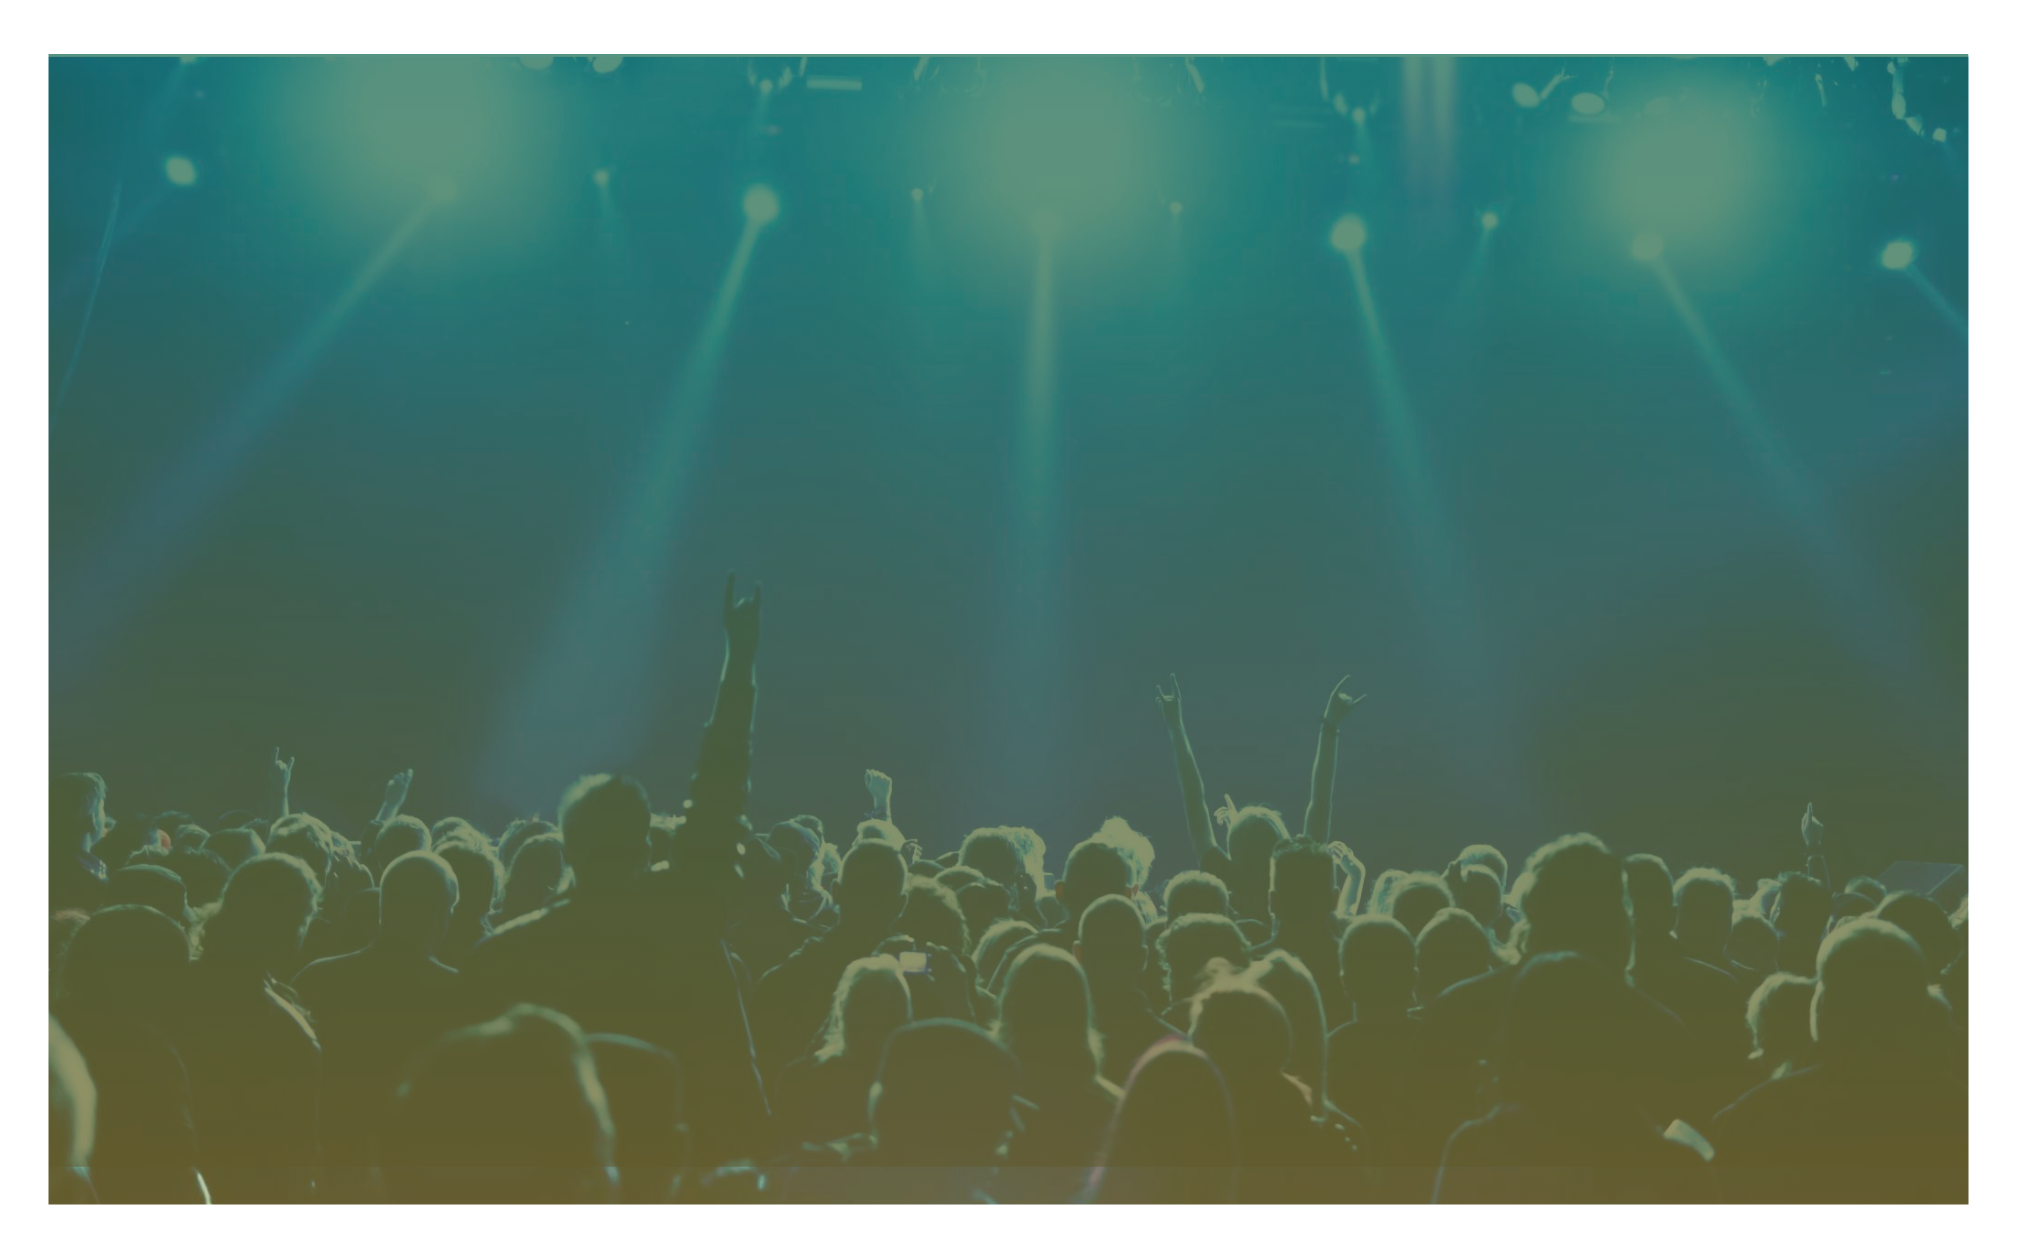
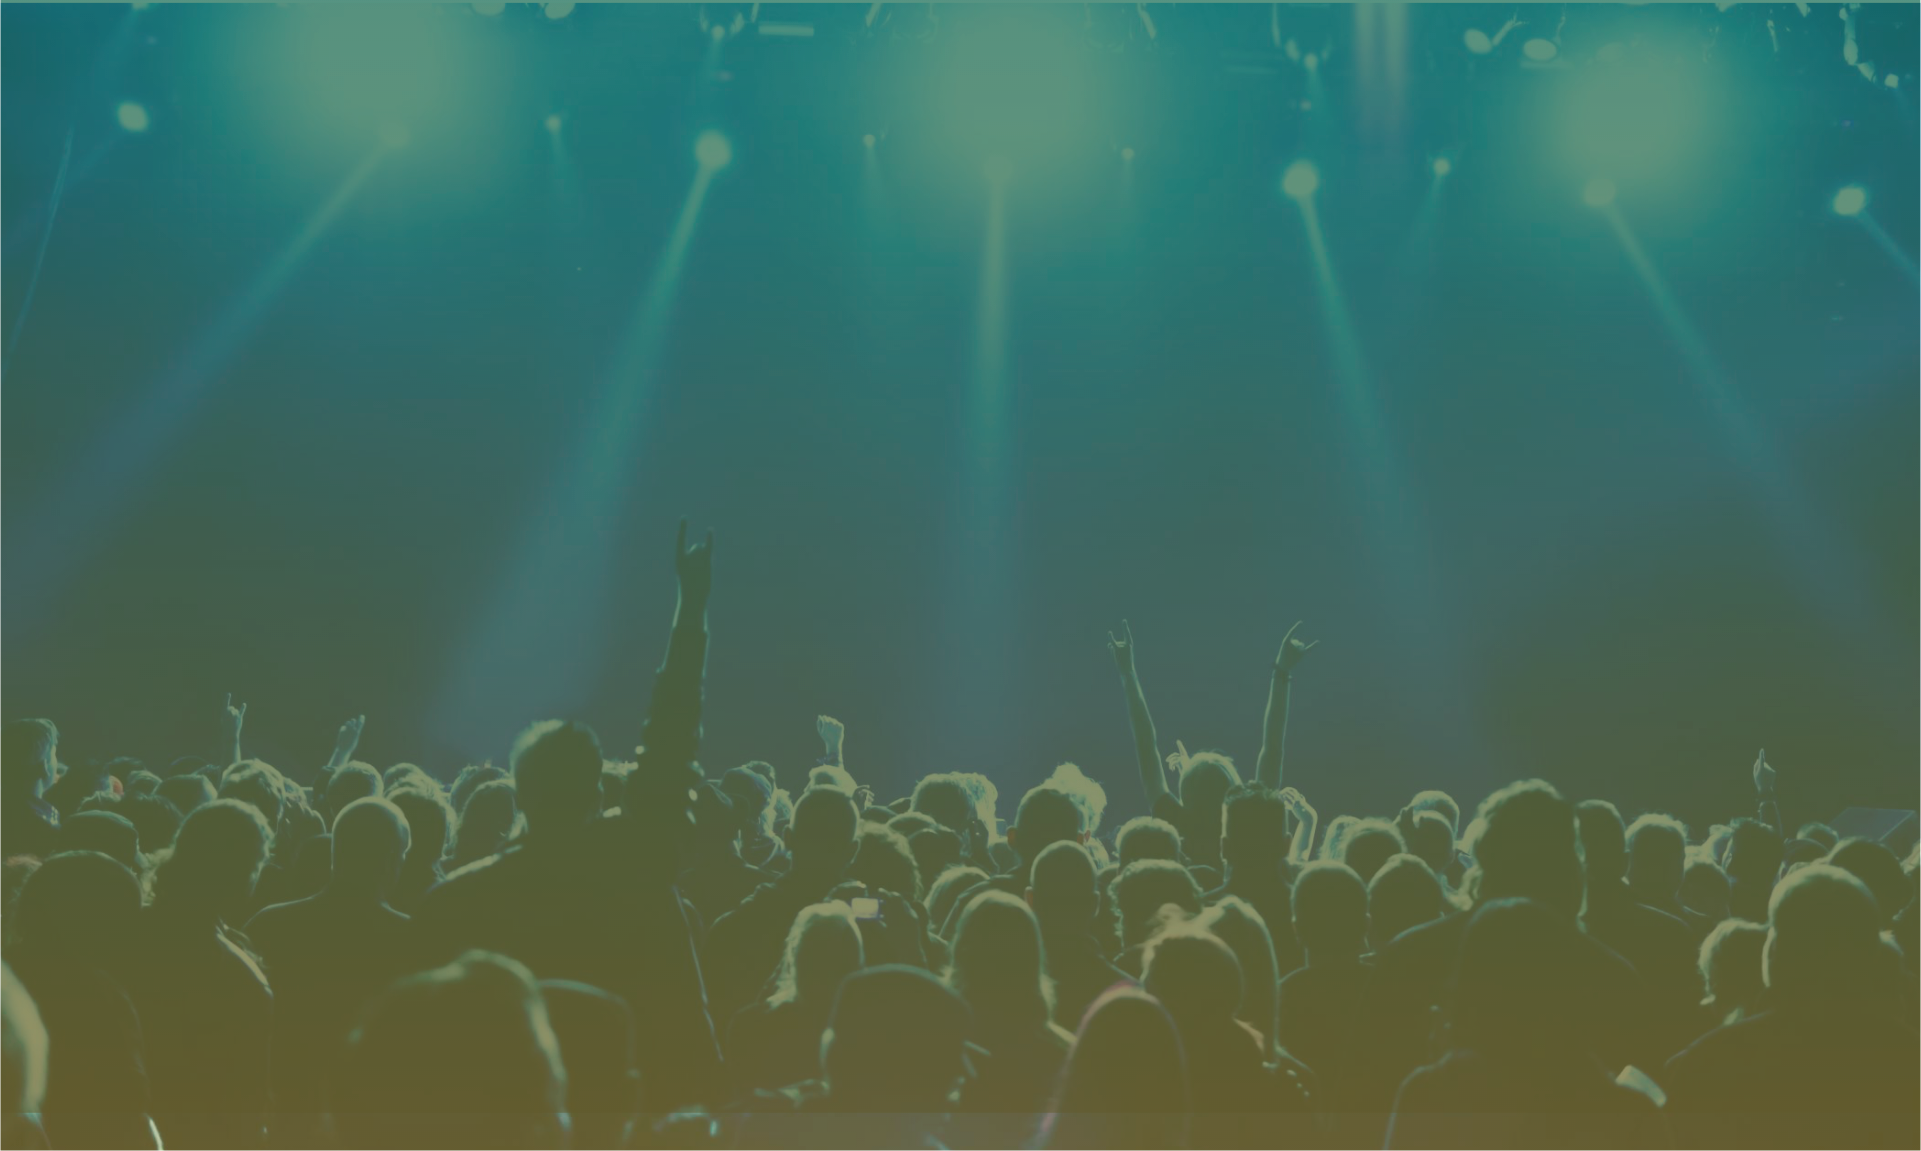
imagenes

diff --git a/15.html b/15.html
@@ -10,7 +10,7 @@
 
 
 <body>
-	<div class="barra_sup grad2">
+	<div class="barra_sup grad8">
 		<div class="row">
 			<div class="col-xs-12 col-sm-4 col-sm-offset-4">
 				<img src="img/Recursoswebcliente-03.png" width="100%">
@@ -18,43 +18,33 @@
 			<div class="col-xs-12 col-sm-4">
 				<nav class="navbar pull-left">
 					<ul class="nav navbar-nav">
-						<li><a href="7.html" class="active">Home</a></li>
-						<li><a href="7.html">Login</a></li>
+						<li><a href="14.html" class="active">Home</a></li>
+						<li><a href="">Login</a></li>
 						<li><a href="">Contáctanos</a></li>
 					</ul>
 				</nav>
-			</div>
-		
-			<div class="col-sm-12">
-				<h3 class="text-center blanco">¿Qué te gustaría <b class="naranja">ofrecer?</b></h3>
 			</div>
 		</div>
 		
 		<div class="cont_central ">
 			<div class="row">
-				<div class="container">
-					<div class="col-sm-3">
-						<center><img src="img/b4.png" class="icon_4"></center>
-						<h4 class="text-center">Eventos</h4>
+				<center><a href=""><img src="img/Recursoswebcliente-39.png" width="20%"></a></center>
+				<h2 class="blanco text-center">SOLUCIONES ÚNICAS PARA <br>EXPERIENCIAS INOLVIDABLE</h2>
+				<form action="" method="" class="form">
+					<div class="col-xs-12 col-sm-6 col-sm-offset-3">
+						<select class="form-control">
+							<option>Let's connect</option>
+						</select><br>
+						<input type="" name="" class="form-control" placeholder="Ticketing solutions for venues, promoters, schools, teams and teachers" /><br>
+						<input type="" name="" class="form-control" placeholder="Ticketing solutions for festibals" /><br>
+						<input type="" name="" class="form-control" placeholder="Self-ticketing solutions for comminity events" /><br>
 					</div>
-					<div class="col-sm-3">
-						<center><img src="img/b5.png" class="icon_5"></center>
-						<h4 class="text-center">Comida</h4>
-					</div>
-					<div class="col-sm-3">
-						<center><img src="img/b6.png" class="icon_6"></center>
-						<h4 class="text-center">Aliados</h4>
-					</div>
-					<div class="col-sm-3">
-						<center><img src="img/b7.png" class="icon_7"></center>
-						<h4 class="text-center">Publicidad</h4>
-					</div>
-				</div>
+				</form>
 			</div>
 		</div>
 	</div>
 
-	<footer class="footer_naranja">
+	<footer class="footer_azul">
 		<div class="container">	
 			<div class="row">
 				<div class="col-sm-9">

diff --git a/14.html b/14.html
@@ -42,7 +42,7 @@
 				</div>
 				<div class="collapse navbar-collapse" id="myNavbar">
 				  <ul class="nav navbar-nav">
-					<li><a href="12.html" class="active">Tipo de aliado</a></li>
+					<li><a href="15.html" class="active">Tipo de aliado</a></li>
 					<li><a href="">Servicio/Producto</a></li>
 					<li><a href="">Lugar</a></li>
 					<li><a href="">Detalles</a></li>
@@ -61,7 +61,7 @@
 
 		<nav class="navbar hidden-xs">
 			<ul class="nav navbar-nav">
-				<li><a href="12.html" class="active">Tipo de aliado</a></li>
+				<li><a href="15.html" class="active">Tipo de aliado</a></li>
 				<li><a href="">Servicio/Producto</a></li>
 				<li><a href="">Lugar</a></li>
 				<li><a href="">Detalles</a></li>

diff --git a/3.html b/3.html
@@ -39,7 +39,7 @@
 							<h4>Ocupacion*</h4>
 							<input type="text" name="" placeholder="Username" class="form-control text-center" /><br>
 							<h4>Pais*</h4>
-							<select class="form-control" name="">
+							<select class=".select form-control" name="">
 								<option></option>
 							</select>
 						</div>
@@ -51,7 +51,7 @@
 							<h4>Telefono*</h4>
 							<input type="text" name="" placeholder="Username" class="form-control text-center" /><br>
 							<h4>Estoy interesado (a) en*</h4>
-							<select class="form-control" name="">
+							<select class=".select form-control" name="">
 								<option></option>
 							</select><br>
 						</div>

diff --git a/css/estilos.css b/css/estilos.css
@@ -85,8 +85,11 @@ nav ul li a{
 .grad7{
 	background-image: url(../img/Recursoswebcliente-16.png);
 }
+.grad8{
+	background-image: url(../img/Recursoswebcliente-36.png);
+}
 
-.grad2, .grad4, .grad5, .grad6, .grad7{
+.grad2, .grad4, .grad5, .grad6, .grad7, .grad8{
 	background-repeat: no-repeat;
 	background-size: 100% 100%; 
 }
@@ -133,7 +136,7 @@ nav ul li a{
 .form textarea{
 	min-height: 150px;
 }
-.form select{
+.form .select{
 	background: #767676;
 	opacity: .7;
 	height: 30px;

diff --git a/css/responsive.css b/css/responsive.css
@@ -257,7 +257,7 @@
 	.cont_form p{
 		font-size: 14px;
 	}
-	.grad2, .grad4, .grad5, .grad6, .grad7{
+	.grad2, .grad4, .grad5, .grad6, .grad7, .grand8{
 		min-height: 200px;
 	}
 	.footer_naranja nav ul li a, .footer_azul nav ul li a{
@@ -339,7 +339,7 @@
 	.cont_form p{
 		font-size: 16px;
 	}
-	.grad2, .grad4, .grad5, .grad6, .grad7{
+	.grad2, .grad4, .grad5, .grad6, .grad7, .grand8{
 		min-height: 650px;
 	}
 	.icon_foto{
